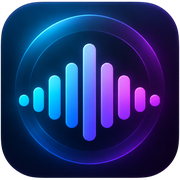
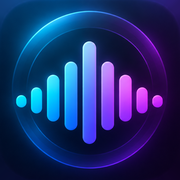
Add files via upload

Changed region(s): [[0.0, 0.0, 1.0, 1.0], [0.0556, 0.2222, 0.9167, 0.9444]]

diff --git a/index.html b/index.html
@@ -40,7 +40,10 @@
             Preloader vẫn bung chữ "Audivis" -> "Audio Visualizer" (tên đầy đủ), xem #app-preloader-name.
          apple-touch-icon.png (180×180, nền đặc — KHÔNG để trong suốt, iOS tự bo góc/viền riêng,
          icon nguồn để trong suốt dễ bị viền đen/trắng lệch) tạo từ chính favicon.png (chỉ khác
-         iOS bỏ qua favicon.png cho mục đích này, phải có file/thẻ riêng). -->
+         iOS bỏ qua favicon.png cho mục đích này, phải có file/thẻ riêng).
+         06/10/2026 (icon Audivis): favicon.png nền TRONG SUỐT (trình duyệt hiển thị alpha đúng); apple-touch-icon.png
+         FULL-BLEED nền đặc, KHÔNG tự bo góc — iOS tô pixel trong suốt thành đen rồi áp mask bo góc riêng, nên bản bo
+         góc sẵn + nền trong suốt bị lộ viền/góc đen. -->
     <meta name="apple-mobile-web-app-title" content="Audivis">
     <title>Audivis</title>
     <link rel="icon" type="image/png" href="favicon.png">
@@ -492,7 +495,7 @@
          generic-drawer.js (cùng vai trò "component tĩnh"), dù bản thân được clone MỖI LẦN MỞ
          (core/file-manager/video-ui.js) chứ không mount 1 lần lúc boot như generic-drawer.js. -->
     <script src="components/video-preview.js?v=20260929cap1"></script>
-    <script src="components/items.js?v=20260728v1"></script>
+    <script src="components/items.js?v=20261006audivis2"></script>
     <!-- Panel "Display" (Main "Visualizer Screen") — 5 toggle UI chrome. -->
     <script src="components/settings/visualizer-display-panel.js?v=20261005disp4"></script>
     <script src="components/settings/visualizer-auto-switch-drawer.js?v=20260926as2"></script>
